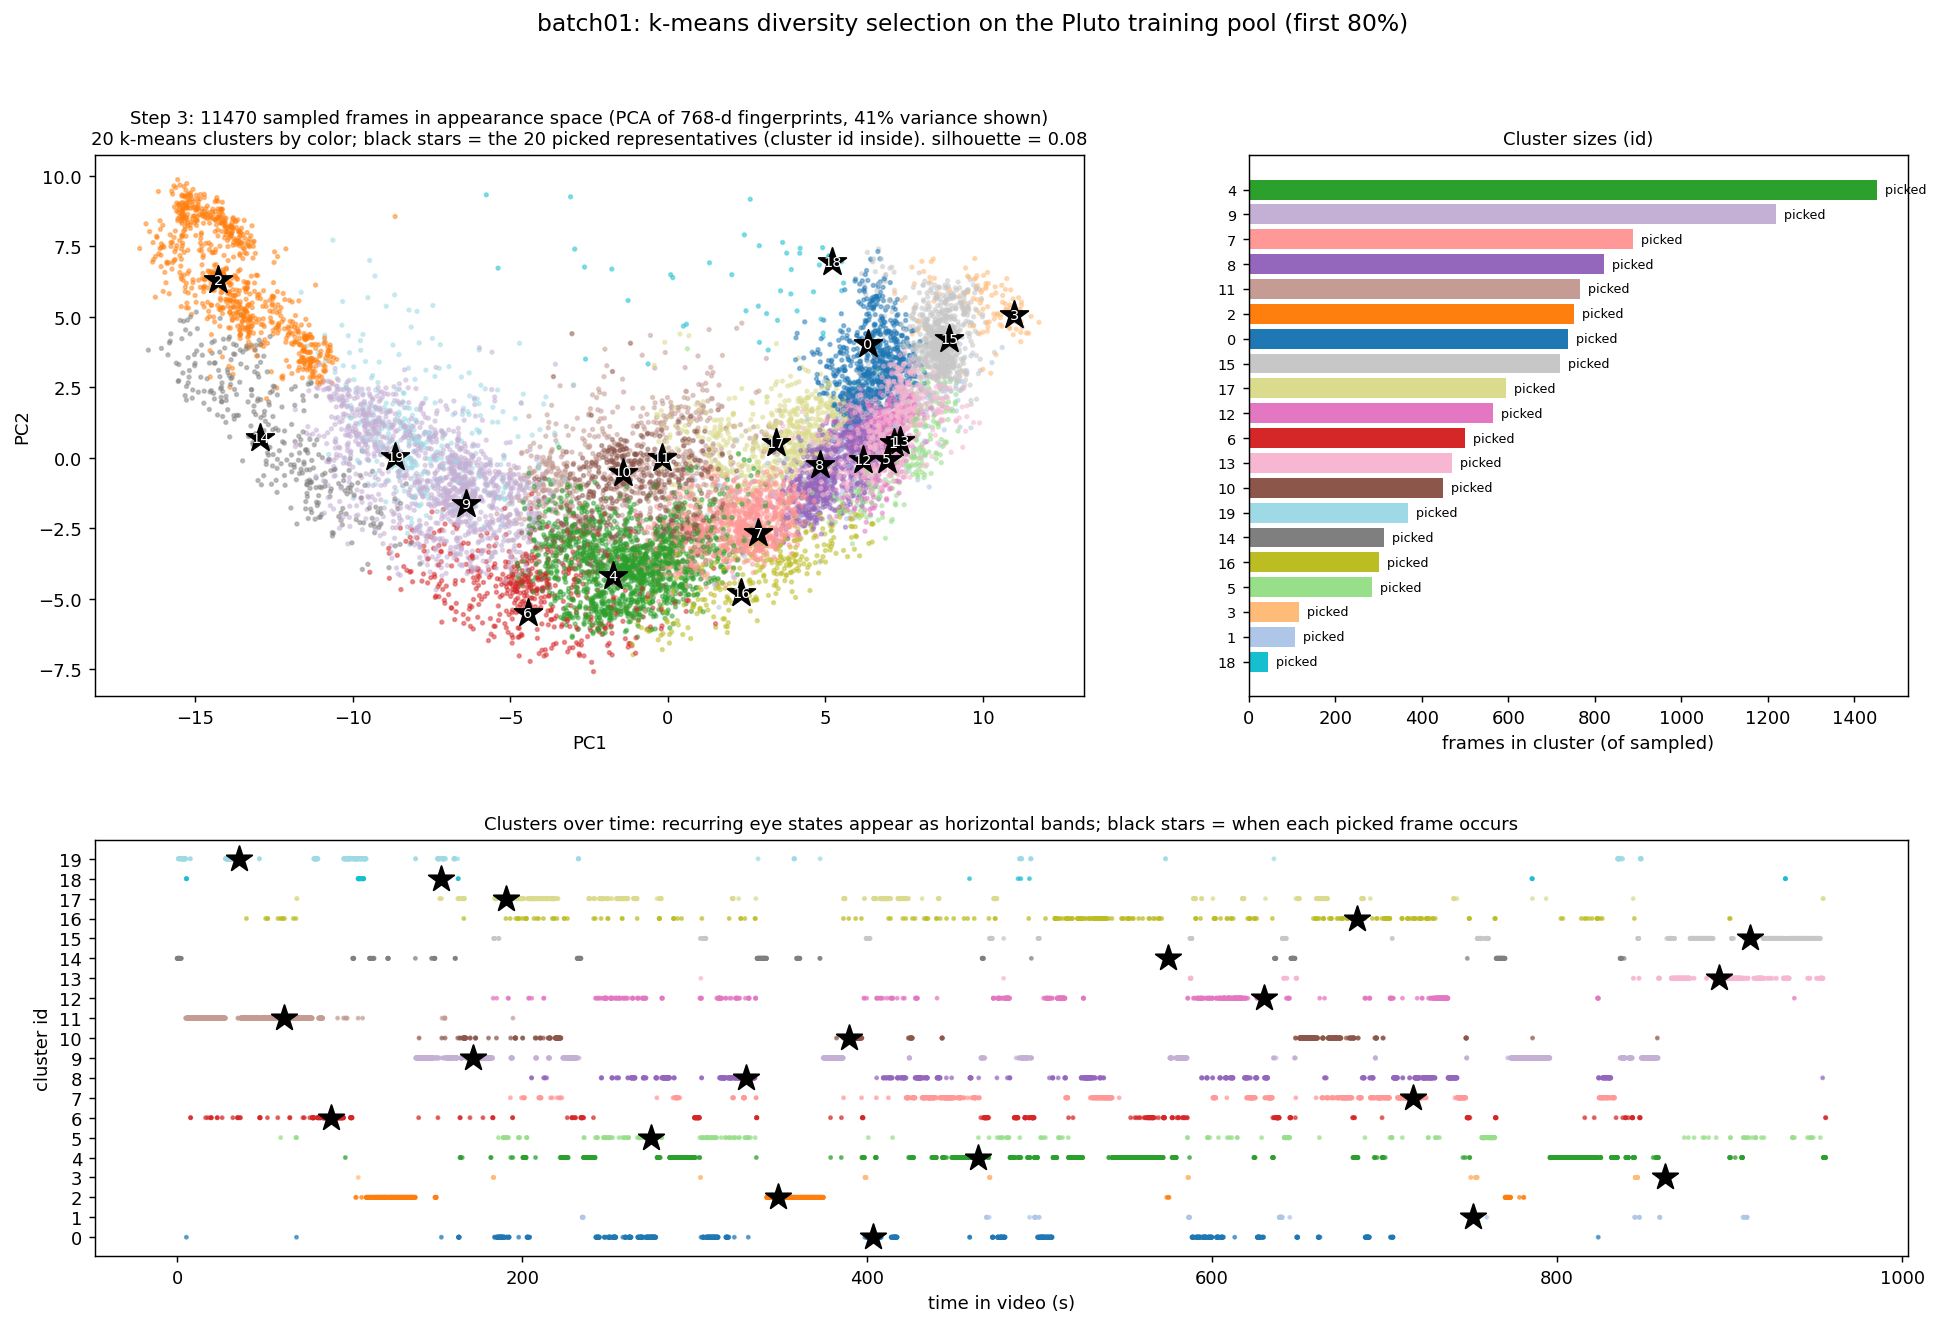
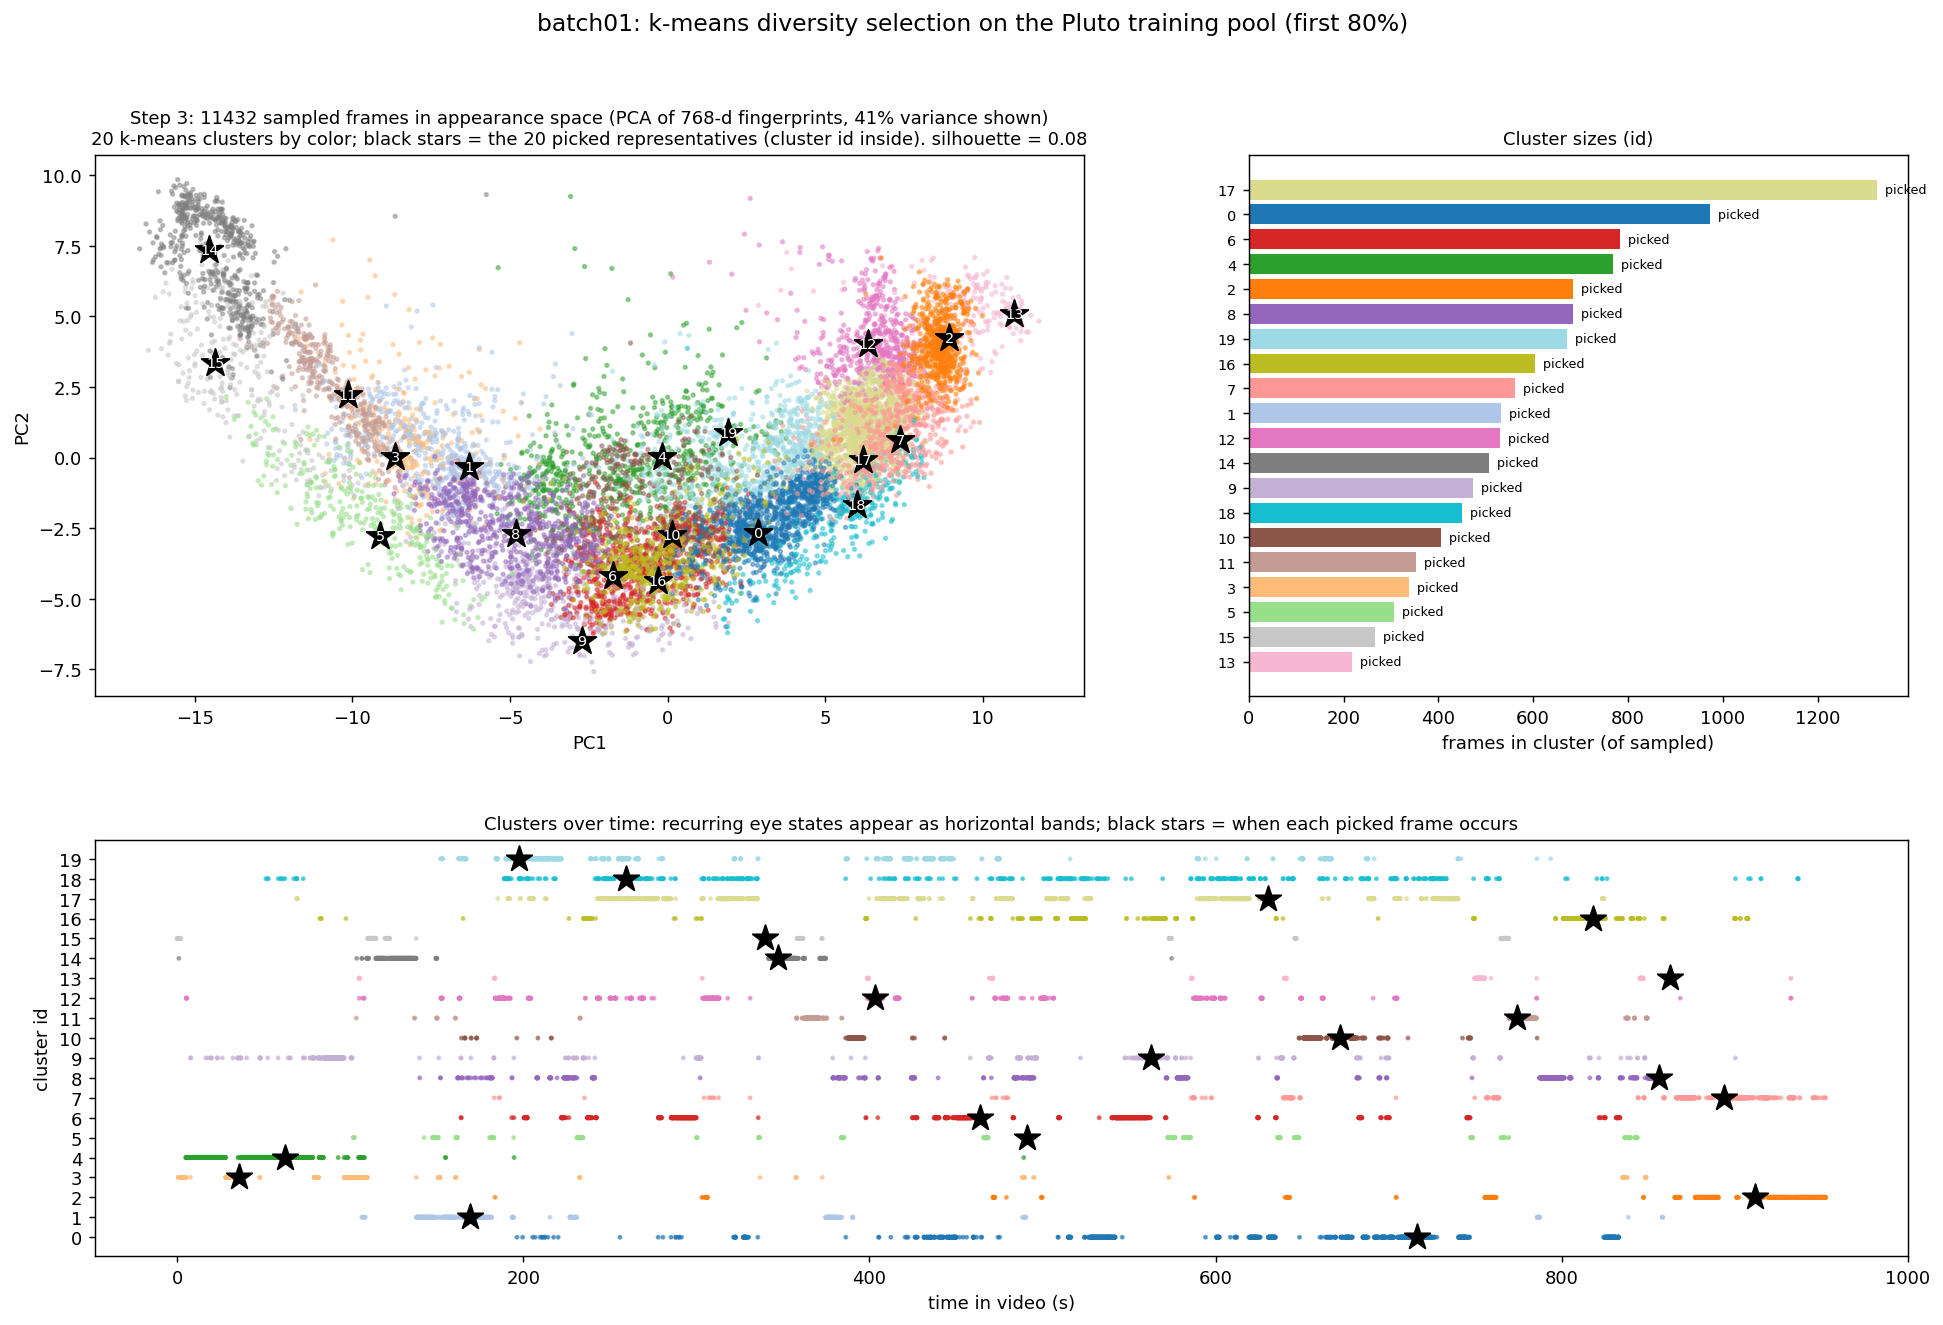
Selection script rewritten to match the frozen protocol after audit
Percentage split with 60-s floors and 2-s guard bands, fps read from the
video; scikit-learn k-means (converged, seeded); jump-guided batches with a
scale-free threshold (3% of eye width); 1-s minimum spacing; idempotent.
Protocol now declares the single y-metric and a relative stopping rule with
a second-seed confirmation.

diff --git a/new-video-generalization/scripts/select_scale_frames.py b/new-video-generalization/scripts/select_scale_frames.py
@@ -1,117 +1,199 @@
 #!/usr/bin/env python3
-"""Extract the frozen test/val sets and one scale batch for the new video.
+"""Extract the frozen test/val sets and one scale batch for a new video.
 
-    python select_scale_frames.py --stage test|val|batch --batch-no N
+    python select_scale_frames.py --stage test|val
+    python select_scale_frames.py --stage batch --batch-no 1
+    python select_scale_frames.py --stage batch --batch-no N --pred-h5 <h5 of latest model>
 
-Implements FROZEN_PARAMETERS.md: test = 100 even frames over the final 2
-minutes; val = 20 even frames over minute 15-16; batch r = k-means (k=20r,
-seed 42) on the 0-15 min pool, collision-safe +20 new frames. Each stage
-writes PNGs + machinelabels (production_v1 prelabels) into
-training-data/labels/<stage>/ ready for napari.
+Implements FROZEN_PARAMETERS.md exactly (rewritten 2026-09-18 after audit):
+
+  split      test = final 10% of the video (>= 60 s), val = the 10% before it
+             (>= 60 s), pool = everything earlier; a GUARD of 2 s is removed
+             on both sides of val so no pool/val/test frames are near-duplicates.
+             fps and length are read from the video, never hardcoded.
+  batch 1    k-means (sklearn, k=20, n_init=10, random_state=42) on per-frame
+             normalized 32x24 grayscale fingerprints of every 5th pool frame;
+             one medoid per cluster.
+  batch >=2  error-guided: `jump` detector on the latest model's predictions
+             (any keypoint moving more than EPS_FRAC * median eye width
+             between consecutive frames), then k-means (k=20) among the
+             flagged pool frames; falls back to the largest-jump frames if
+             too few are flagged.
+  all picks  at least MIN_GAP_S apart from each other and from every frame
+             already labeled in earlier batches.
+  idempotent refuses to overwrite an existing set unless --force (which wipes it).
 """
 import argparse
 import glob
+import shutil
+import sys
 from pathlib import Path
 
 import cv2
 import numpy as np
 import pandas as pd
+from sklearn.cluster import KMeans
 
 UNIT = Path(__file__).resolve().parents[1]
 TD = UNIT / "training-data"
-VIDEO = TD / "20251031_Pluto_spont_1.mp4"
-H5 = sorted(glob.glob(str(TD / "*shuffle60*.h5")))[-1]
-FPS = 60
 SEED = 42
+STRIDE = 5
+GUARD_S = 2.0
+MIN_GAP_S = 1.0
+EPS_FRAC = 0.03          # jump threshold as a fraction of median eye width
+FLOOR_S = 60.0
 
 ap = argparse.ArgumentParser()
 ap.add_argument("--stage", required=True, choices=["test", "val", "batch"])
 ap.add_argument("--batch-no", type=int, default=1)
+ap.add_argument("--video", default=None)
+ap.add_argument("--pred-h5", default=None, help="latest model's predictions (batch >= 2)")
+ap.add_argument("--force", action="store_true")
 a = ap.parse_args()
 
+videos = [Path(a.video)] if a.video else sorted(TD.glob("*.mp4"))
+if len(videos) != 1:
+    sys.exit(f"expected exactly one video, found {videos}")
+VIDEO = videos[0]
 cap = cv2.VideoCapture(str(VIDEO))
 n_frames = int(cap.get(cv2.CAP_PROP_FRAME_COUNT))
+fps = float(cap.get(cv2.CAP_PROP_FPS)) or 60.0
+dur = n_frames / fps
 
-if a.stage == "test":
-    lo, hi = n_frames - 120 * FPS, n_frames - 1
-    picks = np.linspace(lo, hi, 100).astype(int)
-    name = "test100"
-elif a.stage == "val":
-    lo, hi = n_frames - 240 * FPS, n_frames - 120 * FPS
-    picks = np.linspace(lo, hi - 1, 20).astype(int)
-    name = "val20"
-else:
-    pool_hi = n_frames - 240 * FPS
-    stride = 5
-    idxs = np.arange(0, pool_hi, stride)
-    # already-labeled frames from earlier batches
+seg = max(0.10 * dur, FLOOR_S)
+guard = int(round(GUARD_S * fps))
+test_lo = n_frames - int(round(seg * fps))
+val_hi = test_lo - guard                      # exclusive
+val_lo = val_hi - int(round(seg * fps))
+pool_hi = val_lo - guard                      # exclusive
+if pool_hi < int(60 * fps):
+    sys.exit("video too short for the 80/10/10 rule with 60 s floors")
+
+name = {"test": "test100", "val": "val20"}.get(a.stage, f"batch{a.batch_no:02d}")
+out = TD / "labels" / name
+if out.exists() and any(out.glob("img*.png")):
+    if not a.force:
+        sys.exit(f"{out} already populated; refusing to overwrite (use --force to wipe and redo)")
+    shutil.rmtree(out)
+out.mkdir(parents=True, exist_ok=True)
+
+
+def labeled_elsewhere():
     done = set()
-    for d in sorted((TD / "labels").glob("batch*")):
-        done |= {int(p.stem.replace("img", "")) for p in d.glob("img*.png")}
+    for d in (TD / "labels").glob("batch*"):
+        if d != out:
+            done |= {int(p.stem.replace("img", "")) for p in d.glob("img*.png")}
+    return done
+
+
+def spaced(cands, taken, n):
+    """Greedy: keep candidates (in given order) at least MIN_GAP_S from all taken."""
+    gap = int(round(MIN_GAP_S * fps))
+    chosen = []
+    ref = sorted(taken)
+    for f in cands:
+        if all(abs(f - g) >= gap for g in ref + chosen):
+            chosen.append(int(f))
+        if len(chosen) == n:
+            break
+    return chosen
+
+
+def fingerprints(frame_ids):
+    """Sequential decode of the requested frames -> normalized 768-d vectors."""
+    want = np.zeros(n_frames, bool)
+    want[np.asarray(frame_ids)] = True
+    last = int(np.max(frame_ids))
     feats, kept = [], []
-    step = max(len(idxs) // 6000, 1)          # cap ~6000 samples for kmeans
-    every = stride * step
     cap.set(cv2.CAP_PROP_POS_FRAMES, 0)
-    for i in range(int(pool_hi)):             # sequential grab: far faster than seeking
+    for i in range(last + 1):
         if not cap.grab():
             break
-        if i % every:
+        if not want[i]:
             continue
         ok, im = cap.retrieve()
         if not ok:
             continue
-        g = cv2.cvtColor(im, cv2.COLOR_BGR2GRAY)
-        v = cv2.resize(g, (32, 24)).ravel().astype(np.float32)
-        v = (v - v.mean()) / (v.std() + 1e-6)   # per-frame normalization:
-        feats.append(v)                          # cluster by shape, not brightness
+        v = cv2.resize(cv2.cvtColor(im, cv2.COLOR_BGR2GRAY), (32, 24)).ravel().astype(np.float32)
+        feats.append((v - v.mean()) / (v.std() + 1e-6))
         kept.append(i)
-    sub = np.asarray(kept)
-    feats = np.asarray(feats, dtype=np.float32)
-    from scipy.cluster.vq import kmeans2
-    np.random.seed(SEED)
-    k = 20 * a.batch_no
-    while True:
-        cents, lab = kmeans2(feats, k, minit="++", seed=SEED)
-        picks = []
-        for c in range(k):
-            members = np.where(lab == c)[0]
-            if not len(members):
-                continue
-            j = members[np.argmin(np.linalg.norm(feats[members] - cents[c], axis=1))]
-            f = int(sub[j])
-            if f not in done and f not in picks:
-                picks.append(f)
-        new = [f for f in picks if f not in done][:  20 * a.batch_no]
-        new = new[-20:] if a.batch_no > 1 else new[:20]
-        if len(new) >= 20 or k > 20 * a.batch_no + 60:
-            picks = sorted(new[:20])
-            break
+    return np.asarray(feats, np.float32), np.asarray(kept)
+
+
+def medoids(feats, ids, k):
+    km = KMeans(n_clusters=k, n_init=10, max_iter=300, random_state=SEED).fit(feats)
+    order = np.argsort(-np.bincount(km.labels_, minlength=k))      # big clusters first
+    picks = []
+    for c in order:
+        m = np.where(km.labels_ == c)[0]
+        picks.append(int(ids[m[np.argmin(np.linalg.norm(feats[m] - km.cluster_centers_[c], axis=1))]]))
+    return picks, km
+
+
+state = None
+if a.stage == "test":
+    picks = np.linspace(test_lo, n_frames - 1, 100).astype(int).tolist()
+elif a.stage == "val":
+    picks = np.linspace(val_lo, val_hi - 1, 20).astype(int).tolist()
+else:
+    done = labeled_elsewhere()
+    if a.batch_no == 1:
+        cand = np.arange(0, pool_hi, STRIDE)
+        mode = "kmeans-bootstrap"
+    else:
+        if not a.pred_h5:
+            sys.exit("batch >= 2 is error-guided: pass --pred-h5 (latest model's predictions)")
+        pr = pd.read_hdf(a.pred_h5)
+        pr.columns = pr.columns.droplevel(0)
+        while pr.columns.nlevels > 2:
+            pr.columns = pr.columns.droplevel(0)
+        bps = pr.columns.get_level_values(0).unique()
+        width = np.hypot(pr["eye_temporal_corner"]["x"] - pr["eye_nasal_corner"]["x"],
+                         pr["eye_temporal_corner"]["y"] - pr["eye_nasal_corner"]["y"])
+        eps = EPS_FRAC * float(np.nanmedian(width))
+        jump = np.zeros(len(pr))
+        for bp in bps:
+            d = np.hypot(np.diff(pr[bp]["x"], prepend=np.nan), np.diff(pr[bp]["y"], prepend=np.nan))
+            jump = np.fmax(jump, np.nan_to_num(d))
+        flagged = np.where(jump[:pool_hi] > eps)[0]
+        print(f"jump: eps={eps:.1f}px ({EPS_FRAC} x eye width), {len(flagged)} pool frames flagged")
+        if len(flagged) > 12000:
+            flagged = flagged[:: int(np.ceil(len(flagged) / 12000))]
+        cand = flagged if len(flagged) >= 40 else np.argsort(-jump[:pool_hi])[:2000]
+        mode = "jump-guided"
+    feats, ids = fingerprints(cand)
+    ranked, km = medoids(feats, ids, 20)
+    picks = spaced(ranked, done, 20)
+    k = 20
+    while len(picks) < 20 and k < 80:          # collisions/gaps removed some: widen and top up
         k += 10
-    name = f"batch{a.batch_no:02d}"
-    state = dict(feats=feats, labels=lab, frame_idx=sub, centroids=cents, picks=np.asarray(picks), k=k)
+        more, _ = medoids(feats, ids, k)
+        picks += spaced([f for f in more if f not in picks], done | set(picks), 20 - len(picks))
+    if len(picks) < 20:
+        sys.exit(f"only {len(picks)} valid frames found - refusing a short batch")
+    picks = sorted(picks[:20])
+    state = dict(feats=feats, labels=km.labels_, frame_idx=ids, centroids=km.cluster_centers_,
+                 picks=np.asarray(picks), k=20, mode=mode)
 
-out = TD / "labels" / name
-out.mkdir(parents=True, exist_ok=True)
-if a.stage == "batch":
-    np.savez_compressed(out / "kmeans_state.npz", **state)
-
-pred = pd.read_hdf(H5)
-scorer = pred.columns.get_level_values(0)[0]
+h5s = [a.pred_h5] if a.pred_h5 else sorted(glob.glob(str(TD / f"{VIDEO.stem}DLC*.h5")))
+pred = pd.read_hdf(h5s[-1])
 rows, imgs = [], []
 for f in picks:
     cap.set(cv2.CAP_PROP_POS_FRAMES, int(f))
     ok, im = cap.read()
     if not ok:
-        continue
+        sys.exit(f"cannot read frame {f}")
     img = f"img{int(f):06d}.png"
     cv2.imwrite(str(out / img), im)
     rows.append(pred.iloc[int(f)])
     imgs.append(img)
 cap.release()
-
+if state:
+    np.savez_compressed(out / "kmeans_state.npz", **state)
 ml = pd.DataFrame(rows)
 ml.index = pd.MultiIndex.from_tuples([("labeled-data", name, i) for i in imgs])
 ml.columns = pred.columns
 ml.to_hdf(out / "machinelabels.h5", key="df_with_missing", mode="w")
 ml.to_csv(out / "machinelabels.csv")
-print(f"{name}: {len(imgs)} frames -> {out}")
+print(f"{name}: {len(imgs)} frames | video {dur:.1f}s @ {fps:.0f}fps | pool [0,{pool_hi}) "
+      f"val [{val_lo},{val_hi}) test [{test_lo},{n_frames}) | guard {guard} frames")

diff --git a/new-video-generalization/FROZEN_PARAMETERS.md b/new-video-generalization/FROZEN_PARAMETERS.md
@@ -5,47 +5,53 @@ goal: *the minimal labeling cost to apply the model to a brand-new video*
 (kaiwen, 2026-09-18). These rules are fixed for THIS experiment and are the
 template for every future video.
 
-## Per-video split rule (applies to any new video)
+## The one metric (declared first, because a mixed definition once forced a retraction)
+
+Every number on the scale curve comes from ONE script and ONE definition:
+per test frame, RMSE over the 8 keypoints = sqrt(mean of squared keypoint
+errors); the curve's y value is the MEDIAN of that over the 100 test frames
+("median frame RMSE"). The mean over frames and the per-frame mean-absolute
+error are reported alongside in explicitly named columns, never substituted.
+No headline number is ever computed by an ad-hoc inline snippet.
+
+## Per-video split rule (applies to any new video; fps and length read from the file)
 
 - **Test set**: 100 frames evenly spaced over the final 10% of the video
-  (minimum 1 minute). Labeled once, then frozen. REPORT-ONLY: never selects
-  frames, never tunes, never stops anything, never enters training.
-- **Validation set**: 20 frames evenly spaced over the 80%-90% segment
-  (minimum 1 minute). Labeled once, frozen. Used only to pick the best
-  snapshot within each run; adjacent to the test segment so it reflects the
-  same late-session conditions.
-- **Training pool**: the first 80% of the video. All scale batches come from
-  here. Validation and test stay CONTIGUOUS END BLOCKS, never interleaved
-  with the pool: at 60 fps, frames 0.07 s apart are near-duplicates, so a
-  spread-out validation set is effectively trained on (the era-1 leakage
-  lesson). Coverage/diversity is the job of the k-means selection over the
-  whole pool, not of the evaluation sets.
-  (Amended twice on 2026-09-18, both BEFORE any frame was labeled: absolute
-  minutes -> length-relative -> percentage-based. For this 19.9-min video
-  all three yield the same frames.)
+  (minimum 60 s). Labeled once, then frozen. REPORT-ONLY: never selects
+  frames, never tunes, never enters training.
+- **Validation set**: 20 frames evenly spaced over the 10% before the test
+  segment (minimum 60 s). Labeled once, frozen. Used only to pick the best
+  snapshot within each run.
+- **Training pool**: everything earlier.
+- **Guard bands**: 2 s are removed between pool and validation and between
+  validation and test, so no two sets contain near-duplicate frames (at
+  60 fps, frames 0.07 s apart are effectively the same image - the era-1
+  leakage lesson). Evaluation sets are contiguous end blocks, never
+  interleaved with the pool; coverage is the selector's job.
+- For the 19.9-min Pluto video: pool [0, 57158), val [57278, 64453),
+  test [64573, 71748), guard 120 frames.
 
-## Fixed frame-selection algorithm (the "which frames" rule)
+## Fixed frame-selection algorithm (implemented in scripts/select_scale_frames.py)
 
-Two-phase, pre-declared (amended 2026-09-18 before any labeling):
-
-- **Batch 1 (bootstrap)**: pure k-means on frame appearance (grayscale,
-  downsampled 32x24, per-frame zero-mean/unit-variance normalized so
-  clusters form on shape rather than illumination, every 5th frame of the
-  pool), `numpy` seed 42, k=20. Honest scope: k-means covers the ~20 most
-  COMMON appearance modes; rare extremes are deliberately left to the
-  error-guided batches, whose job is exactly the tail.
-  With the unadapted model ~100% of frames are flagged, so error-guided
-  selection has no discriminative power yet; diversity is the only signal.
-- **Batch r >= 2 (error-guided)**: analyze the pool with the latest trained
-  model, flag candidates with the `jump` outlier detector (epsilon = 20, the
-  frozen AL setting; chosen as the preferred detector - best numbers,
-  mildest failure modes, calibration-free - while noting the original
-  experiment proved the three detectors equivalent only to EACH OTHER, not
-  against pure k-means), then k-means (seed 42) among the flagged frames for
-  20 new unique picks, collision-safe against all earlier labels.
-
-This is a single-arm protocol: it measures minimal labeling cost under our
-best selection practice, and does not re-test selection methods.
+- **Batch 1 (bootstrap)**: k-means (scikit-learn, k = 20, n_init = 10,
+  max_iter = 300, random_state = 42) on 32x24 grayscale fingerprints,
+  per-frame zero-mean/unit-variance normalized, of every 5th pool frame; the
+  medoid of each cluster is picked. Audited 2026-09-18: stride, fingerprint
+  resolution, normalization and seed change WHICH frames are picked but no
+  measurable property of the pick set, so they are fixed by reasoning, not
+  tuned. Visual check (results/01, 02): appearance space is a continuum
+  (silhouette ~0.08), so k-means acts as an even partition of that continuum
+  - 20 evenly spread "ticks" - rather than a discovery of 20 discrete modes.
+- **Batch r >= 2 (error-guided)**: analyze the video with the latest trained
+  model; flag pool frames where any keypoint moves more than 3% of the
+  median eye width between consecutive frames (the `jump` detector, made
+  scale-free: 3% is ~20 px on the original ~700-px eye, ~10 px on Pluto);
+  k-means (same settings) among flagged frames; medoids picked.
+- **All batches**: picks are at least 1 s apart from each other and from
+  every previously labeled frame; a batch is exactly 20 frames or the script
+  refuses. Re-running a populated set is refused unless --force.
+- Single-arm protocol: it measures minimal labeling cost under this
+  selection practice and does not re-test selection methods.
 
 ## Training and evaluation per scale step
 
@@ -56,8 +62,14 @@ best selection practice, and does not re-test selection methods.
 - Best snapshot by Pluto validation mAP; test set scored ONCE per step.
 - Curve: x = cumulative Pluto labels, y = external error (mean + median) on
   the frozen Pluto test set. Baseline point x=0 = production_v1 as-is.
-- Stopping: judged retrospectively; plateau = two consecutive steps with
-  median improvement < 0.5 px (the round-11 referee rule).
+- Stopping (scale-free, amended after audit): let B be the running best
+  median frame RMSE. The curve is declared flat when two consecutive steps
+  each fail to improve B by more than 3% (3% is ~0.5 px on the original
+  video; an absolute pixel threshold would not transfer to a smaller eye).
+  Because one training run carries ~0.3-0.5 px of run-to-run noise, when the
+  rule fires the two flat steps are retrained once with a second seed and
+  the verdict stands only if both seeds agree. The x = 0 point (unadapted
+  model) is plotted but excluded from the rule.
 
 ## Labeling standard
 
